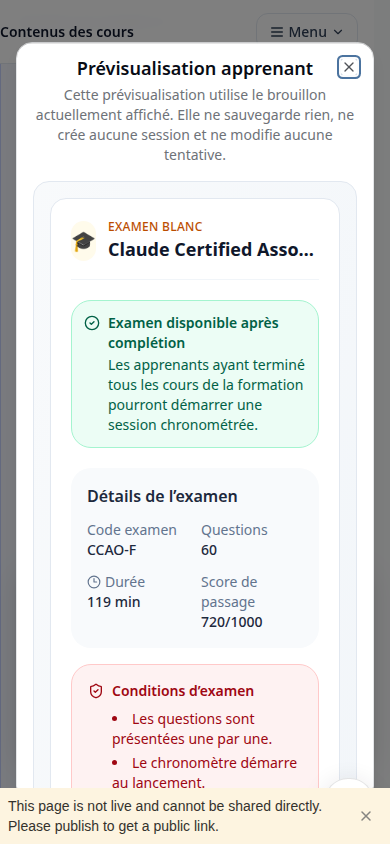
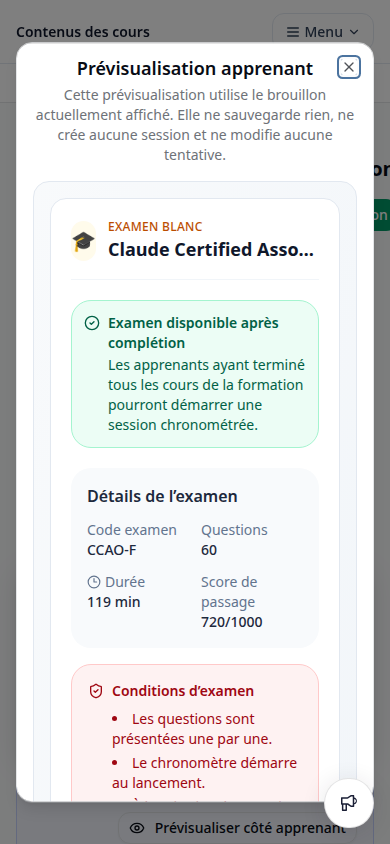
Checkpoint: Preuves publiques finales de la prévisualisation et des aides de l’éditeur d’examen : version 6465c19f contrôlée sur akademy.neodev.click. Les huit infobulles sont accessibles ; la prévisualisation reflète le brouillon non sauvegardé sans ouvrir de session ni tenter l’examen ; le dialogu

diff --git a/todo.md b/todo.md
@@ -25,7 +25,7 @@
 - [x] Auditer les composants de l’éditeur d’examen, les primitives d’infobulle disponibles et le rendu apprenant afin de définir une prévisualisation fidèle sans ouvrir de session ni modifier de données — réemploi de la primitive Tooltip et de l’introduction apprenant ; aucune session ni persistence n’est appelée par le brouillon
 - [x] Ajouter des aides contextuelles accessibles expliquant le code, la banque, le nombre de questions, la durée, le seuil, le mélange, la publication et les domaines/pondérations — huit boutons d’aide clavier/souris associés aux contrôles exacts de l’éditeur
 - [x] Ajouter une prévisualisation apprenant alimentée par la configuration en cours d’édition, avec états absence de questions, épreuve non publiée et résumé de passage — dialogue non interactif qui affiche le brouillon sans sauvegarde ; aperçu de l’état, métadonnées, conditions de durée et domaines
-- [ ] Publier puis vérifier sur le domaine public les aides clavier/souris, le reflet d’un brouillon non sauvegardé et la prévisualisation desktop/mobile sans débordement, avec preuves
+- [x] Publier puis vérifier sur le domaine public les aides clavier/souris, le reflet d’un brouillon non sauvegardé et la prévisualisation desktop/mobile sans débordement, avec preuves — version `6465c19f` contrôlée sur `akademy.neodev.click` : huit aides, durée de brouillon à 119 min, absence de session et dialogue mobile `356/356` sans élément débordant
 
 ## Audit comparatif avancé — DataCamp et Neopolis
 - [x] Auditer les formations certifiantes, les examens blancs, les invitations de fin de cours et les métadonnées de durée/questions réellement disponibles — 4 formations certifiantes configurées, chacune avec code examen, nombre de questions, durée, seuil et domaines issus de `trainingIndex.examConfig`

diff --git a/docs/exam-certification-audit.md b/docs/exam-certification-audit.md
@@ -35,3 +35,5 @@ La même QA publique a démarré une session temporaire de durée **une minute**
 L’éditeur propose désormais huit aides contextuelles : code d’examen, questions par tentative, durée, score minimal, mélange des questions, mélange des choix, publication et domaines/pondérations. Les aides sont disponibles au survol et à la focalisation clavier, et expliquent les effets réels côté apprenant et serveur, notamment l’absence de certificat après expiration.
 
 Le bouton **Prévisualiser côté apprenant** ouvre une fenêtre non destructive fondée sur le brouillon courant. Elle ne crée ni session, ni tentative, ni sauvegarde. Elle restitue le statut disponible/brouillon/sans question, les informations d’examen, les conditions de passage et les domaines. La QA locale vérifie le reflet d’une durée non sauvegardée (119 minutes), les huit aides et le rendu sans débordement à 390 px. Les 502 tests de la suite complète ont réussi, avec deux tests explicitement ignorés.
+
+Après publication de la version `6465c19f`, la même QA a été rejouée sur `https://akademy.neodev.click`. Elle confirme les huit aides contextuelles, l’affichage de la durée du brouillon non sauvegardé, l’absence de création de session et un dialogue mobile contenu à 356 px (`scrollWidth: 356`, sans descendant débordant). Les captures desktop et mobile sont archivées sous `docs/exam-visibility-screenshots/`.
